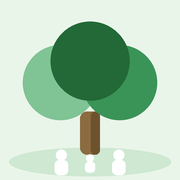
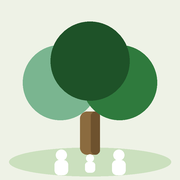
style: 초록/카키/연두 팔레트로 시스템 컬러 재정비
- 주 액센트(--blue) 파랑 → 진한 잎사귀 초록 (#2f7a3d)
- --khaki / --lime 토큰 추가
- 배경 그라디언트, 폼 입력, 캘린더 셀, 오늘 하이라이트, 포커스 링, FAB 그림자,
  진행중/반복/여유 배지, 아이콘 배경까지 통일된 초록 톤

Claude-Session: https://claude.ai/code/session_01G9J7WjVZ9wcXL5GQctGjiN

Changed region(s): [[0.4722, 0.25, 0.8889, 0.6667]]

diff --git a/styles.css b/styles.css
@@ -1,5 +1,5 @@
-:root{--ink:#111827;--muted:#7a8494;--soft:#f5f6f8;--line:#e6e8ee;--paper:#fff;--blue:#0a84ff;--blue-dark:#0066d6;--red:#ff3b30;--amber:#b87500;--green:#248a5b;--shadow:0 1px 2px rgba(17,24,39,.04),0 18px 46px rgba(17,24,39,.06)}
-:root.dark{--ink:#f4f6fb;--muted:#9aa4b2;--soft:#0f1117;--line:#2b303a;--paper:#191d25;--blue:#4aa3ff;--blue-dark:#2c8bea;--shadow:0 18px 46px rgba(0,0,0,.26)}
-.stock-search{display:grid;grid-template-columns:1fr auto;gap:10px;margin-bottom:12px}.stock-search input{width:100%;min-height:46px;padding:11px 12px;border:1px solid var(--line);border-radius:8px;background:#f9fafb;color:var(--ink);outline:0}html.dark .stock-search input{background:#11151d}.quick-links{display:flex;gap:8px;flex-wrap:wrap;margin-bottom:14px}.quick-links a{display:inline-flex;align-items:center;min-height:32px;padding:6px 10px;border:1px solid var(--line);border-radius:999px;background:var(--paper);color:var(--blue);font-size:13px;font-weight:800;text-decoration:none}.investment-grid{display:grid;grid-template-columns:repeat(3,1fr);gap:10px}.indicator-card{display:grid;gap:7px;min-height:142px;padding:14px;border:1px solid var(--line);border-radius:8px;background:var(--paper);color:var(--ink);text-decoration:none}.indicator-card:hover{border-color:rgba(10,132,255,.45);box-shadow:0 0 0 3px rgba(10,132,255,.12)}.indicator-card b{font-size:16px}.indicator-card span:last-child{color:var(--muted);font-size:12px;line-height:1.45}.indicator-purpose{color:var(--blue);font-size:12px;font-weight:900}
-.task-dialog{border:1px solid var(--line);border-radius:12px;padding:0;width:min(560px,94vw);max-width:560px;background:var(--paper);color:var(--ink);box-shadow:var(--shadow);max-height:90vh;overflow:hidden}.task-dialog::backdrop{background:rgba(0,0,0,.35)}.task-dialog-body{padding:20px;max-height:90vh;overflow-y:auto}.task-dialog .card-head{margin-bottom:14px}.task-dialog h2{font-size:18px;line-height:1.25;margin:0}.hero-right{display:flex;gap:12px;align-items:center;flex-wrap:wrap;justify-content:flex-end}.primary.compact{min-height:36px;padding:0 14px;font-size:14px}.fab{display:none;position:fixed;right:16px;bottom:16px;width:56px;height:56px;border-radius:50%;background:var(--blue);color:#fff;border:0;font-size:28px;font-weight:800;box-shadow:0 8px 24px rgba(10,132,255,.4);z-index:4;line-height:1;padding:0}@media(max-width:760px){.fab{display:block}.hero-right .primary.compact{display:none}}@media(max-width:760px){.stock-search{grid-template-columns:1fr}.investment-grid{grid-template-columns:1fr}.indicator-card{min-height:auto}.quick-links a{flex:1;justify-content:center;min-width:calc(50% - 4px)}}
-*{box-sizing:border-box}html{background:var(--soft)}body{margin:0;background:linear-gradient(180deg,#fbfbfd 0,var(--soft) 280px);color:var(--ink);font-family:ui-sans-serif,system-ui,-apple-system,BlinkMacSystemFont,"Apple SD Gothic Neo","Noto Sans KR",sans-serif;-webkit-font-smoothing:antialiased}html.dark body{background:linear-gradient(180deg,#171b24 0,var(--soft) 320px)}button,input,select,textarea{font:inherit}button{cursor:pointer}.app{width:min(1180px,100%);margin:auto;padding:32px 20px 56px}.top{display:flex;justify-content:space-between;align-items:flex-end;margin-bottom:16px}.eyebrow{color:var(--blue);font-size:12px;font-weight:800}.top h1{margin:4px 0 0;font-size:32px;line-height:1.1}.topRight{display:flex;gap:10px;align-items:center}.date,.user,.hint,.task-meta,.footnote{color:var(--muted)}.date{font-size:14px}.userLine{display:flex;gap:8px;align-items:center}.user{font-size:13px}.toolbar{display:flex;gap:8px;flex-wrap:wrap;margin-bottom:14px}.logout,.tool,.text-button,.month-nav button{border:1px solid var(--line);background:rgba(255,255,255,.86);border-radius:8px;color:var(--ink)}html.dark .logout,html.dark .tool,html.dark .text-button,html.dark .month-nav button{background:#1f2430}.logout,.tool,.text-button{padding:8px 10px}.text-button{color:var(--blue);border:0;background:transparent}.grid{display:grid;grid-template-columns:minmax(0,1.36fr) minmax(330px,.9fr);gap:14px}.grid>*{min-width:0}.card{background:rgba(255,255,255,.88);border:1px solid rgba(220,224,232,.9);border-radius:8px;padding:18px;box-shadow:var(--shadow);backdrop-filter:blur(16px)}html.dark .card{background:rgba(25,29,37,.92);border-color:#2b303a}.wide{grid-column:1/-1}.card-head{display:flex;justify-content:space-between;gap:14px;align-items:flex-start;margin-bottom:14px}.card h2{font-size:18px;line-height:1.25;margin:0}.hint{font-size:13px}.summary{display:flex;gap:18px;align-items:center}.stat{min-width:70px;padding-left:14px;border-left:1px solid var(--line)}.stat b{display:block;font-size:22px;line-height:1}.stat span{font-size:12px;color:var(--muted)}.tasks,.project-list{display:grid;gap:8px}.task{display:flex;flex-wrap:wrap;align-items:center;gap:12px;min-width:0;min-height:56px;padding:10px 8px;border:1px solid var(--line);border-radius:8px;background:var(--paper)}.task.done{opacity:.52}.task.done .task-title{text-decoration:line-through}.check{appearance:none;-webkit-appearance:none;width:21px;height:21px;margin:0;border:2px solid var(--c,var(--blue));border-radius:6px;background:var(--paper);display:grid;place-items:center;cursor:pointer;flex:none}.check:checked{background:var(--c,var(--blue))}.check:checked::after{content:"";width:5px;height:10px;border:solid #fff;border-width:0 2.5px 2.5px 0;transform:rotate(45deg) translateY(-1px)}.task-main{min-width:0;flex:1 1 150px}.task-side{display:flex;align-items:center;gap:8px;margin-left:auto;flex-wrap:wrap;justify-content:flex-end}.task-title{font-weight:760}.task-meta{font-size:12px;margin-top:2px;overflow:hidden;text-overflow:ellipsis;white-space:nowrap}.badge,.due-badge{font-size:12px;font-weight:800;padding:4px 8px;border-radius:999px;white-space:nowrap}.high,.overdue{background:#fff1f0;color:var(--red)}.middle,.soon{background:#fff8e8;color:var(--amber)}.low,.today-due{background:#ecf9f2;color:var(--green)}.delete,.edit{border:0;color:#a4adba;background:transparent;font-size:14px;height:30px;border-radius:8px}.delete{width:28px;font-size:20px}.edit{padding:0 8px}.delete:hover,.edit:hover{background:#f2f4f7;color:#667085}html.dark .delete:hover,html.dark .edit:hover{background:#262d39;color:#c5ceda}.form{display:grid;gap:10px}.form input,.form select,.form textarea,.project-add input{width:100%;min-height:44px;padding:11px 12px;border:1px solid var(--line);border-radius:8px;background:#f9fafb;color:var(--ink);outline:0}html.dark .form input,html.dark .form select,html.dark .form textarea,html.dark .project-add input{background:#11151d}.form input:focus,.form select:focus,.form textarea:focus,.project-add input:focus{border-color:var(--blue);background:var(--paper);box-shadow:0 0 0 3px rgba(10,132,255,.14)}.form textarea{min-height:78px;resize:vertical}.form-row>*{min-width:0;max-width:100%}.form input[type=date],.form input[type=time]{display:block;min-width:0;-webkit-appearance:none;appearance:none;text-align:left}.form-row,.project-add{display:grid;grid-template-columns:1fr 1fr;gap:10px}.project-add{grid-template-columns:1fr auto;margin-bottom:12px}.primary{min-height:46px;background:var(--blue);border:0;color:#fff;border-radius:8px;font-weight:800}.primary:hover{background:var(--blue-dark)}.chips{display:flex;gap:8px;flex-wrap:wrap;margin-bottom:12px}.chip{display:inline-flex;gap:6px;align-items:center;border:1px solid var(--line);border-radius:999px;padding:6px 9px;background:var(--paper);font-size:13px}.chip button{border:0;background:transparent;color:var(--muted)}.project{padding:12px 0;border-bottom:1px solid var(--line)}.project:last-child{border-bottom:0}.project-line{display:flex;justify-content:space-between;gap:8px;font-weight:760}.bar{height:6px;background:#edf0f5;border-radius:999px;overflow:hidden;margin-top:10px}html.dark .bar{background:#303642}.bar i{height:100%;display:block;background:var(--blue);border-radius:999px}.alerts{display:grid;gap:8px;margin-bottom:10px}.alert{padding:10px 12px;border-radius:8px;background:#fff8e8;color:var(--amber);font-size:13px}.calendar-header{display:flex;justify-content:space-between;align-items:center;margin-bottom:12px}.month-nav{display:flex;gap:8px}.month-nav button{min-width:34px;height:34px;color:var(--blue);font-size:15px}.week,.days{display:grid;grid-template-columns:repeat(7,minmax(0,1fr));gap:6px}.week span{text-align:center;font-size:12px;color:var(--muted);padding:6px 0}.day{min-width:0;overflow:hidden;min-height:78px;padding:8px;border-radius:8px;background:#f8f9fb;border:1px solid transparent;font-size:13px;text-align:left;color:var(--ink)}html.dark .day{background:#141922}.day.today{border-color:var(--blue);background:#eef6ff}html.dark .day.today{background:#11253a}.day.selected{box-shadow:0 0 0 3px rgba(10,132,255,.16)}.day.other{opacity:.42}.day b{font-size:12px}.dot{display:block;overflow:hidden;text-overflow:ellipsis;white-space:nowrap;margin-top:6px;padding:3px 6px;background:#e7f1ff;color:#075bb8;border-radius:6px;font-size:10px}.empty{padding:22px 0;text-align:center;color:var(--muted);font-size:14px}.footnote{margin-top:16px;font-size:12px}.overlay[hidden]{display:none}.overlay{position:fixed;inset:0;background:radial-gradient(circle at top,#fff 0,#f3f6fb 55%,#eef1f6 100%);display:grid;place-items:center;padding:20px;z-index:5}.login{width:min(420px,100%);padding:32px;background:rgba(255,255,255,.9);border:1px solid rgba(220,224,232,.95);border-radius:8px;box-shadow:0 18px 60px rgba(17,24,39,.14);backdrop-filter:blur(18px)}.login h1{margin:6px 0 10px;font-size:31px;line-height:1.1}.login p{line-height:1.62;color:var(--muted);font-size:14px}.google{width:100%;min-height:48px;margin-top:16px;border-radius:8px;border:1px solid var(--line);background:#111827;color:#fff;font-weight:800}.notice{min-height:18px;margin:12px 0 0;color:var(--red);font-size:13px}.market-grid{display:grid;grid-template-columns:repeat(4,minmax(0,1fr));gap:10px}.market-item{border:1px solid var(--line);border-radius:8px;padding:12px;background:var(--paper)}.market-item b{display:block;font-size:17px}.market-item span{display:block;color:var(--muted);font-size:12px;margin-top:4px}.spark{display:flex;align-items:end;gap:3px;height:34px;margin-top:10px}.spark i{flex:1;background:linear-gradient(180deg,#ffb13b,#ff6b1a);border-radius:4px 4px 0 0}.market-status{margin-bottom:12px;color:var(--muted);font-size:13px}.status{margin-bottom:10px;color:var(--muted);font-size:13px}.status:empty{display:none}.series-dialog{border:1px solid var(--line);border-radius:12px;padding:20px;width:min(360px,90vw);background:var(--paper);color:var(--ink);box-shadow:var(--shadow)}.series-dialog::backdrop{background:rgba(0,0,0,.35)}.series-dialog h3{margin:0 0 6px;font-size:17px}.series-dialog p{margin:0}.dialog-actions{display:flex;gap:8px;flex-wrap:wrap;margin-top:14px}.dialog-actions .primary{min-height:40px;padding:0 14px}.badge.repeat{background:#eef2ff;color:#4353b5}.dot-color{display:inline-block;width:8px;height:8px;border-radius:50%;margin-right:6px;vertical-align:middle}.chip.fixed{padding-right:12px}.field{display:grid;gap:4px;min-width:0}.field>span{font-size:12px;color:var(--muted)}.check-field{display:flex;align-items:center;gap:8px;min-height:44px;padding:0 12px;border:1px solid var(--line);border-radius:8px;background:#f9fafb;font-size:14px;cursor:pointer}html.dark .check-field{background:#11151d}.form .check-field input{width:18px;height:18px;min-height:0;padding:0;margin:0;accent-color:var(--blue)}.check-row{display:flex;gap:10px;align-items:center;flex-wrap:wrap}.check-row .check-field{flex:1}.form-row:has(#repeat option[value=none]:checked){grid-template-columns:1fr}.form-row:has(#repeat option[value=none]:checked) #repeatCount{display:none}.ongoing{background:#eef6ff;color:#075bb8}.badge.remind{background:#fff4e5;color:#b45309}html.dark .dot{filter:brightness(1.35)}.dot.more{background:transparent;color:var(--muted);padding-left:2px}.check-field.locked{opacity:.7}.members{list-style:none;margin:0 0 12px;padding:0;display:grid;gap:6px}.members li{display:flex;align-items:center;gap:6px;font-size:14px}.code-line{display:flex;align-items:center;gap:10px;margin-top:8px;font-size:13px;color:var(--muted)}.code{font-family:ui-monospace,SFMono-Regular,Menlo,Consolas,monospace;font-size:20px;letter-spacing:3px;padding:6px 10px;border:1px dashed var(--line);border-radius:8px;color:var(--ink)}.family-actions{margin-bottom:10px}.family-actions .primary{width:100%}#joinCode{text-transform:uppercase}.source-link{color:var(--blue);font-weight:800;text-decoration:none}@media(max-width:760px){body{background:var(--soft)}.app{padding:18px 12px 36px}.top{align-items:flex-start;gap:12px;margin-bottom:16px}.top h1{font-size:28px}.topRight{align-items:flex-end;flex-direction:column;gap:6px}.grid{grid-template-columns:1fr;gap:12px}.wide{grid-column:auto}.card{padding:16px}.card-head{align-items:flex-start}.summary{gap:12px}.stat{min-width:0}.form-row{grid-template-columns:1fr}.task{padding:10px 8px}.badge,.due-badge{font-size:11px}.day{min-height:60px;padding:6px}.week,.days{gap:5px}.dot{font-size:9px;padding:2px 5px}.market-grid{grid-template-columns:repeat(2,minmax(0,1fr))}.footnote{line-height:1.5}.top{flex-direction:column;align-items:stretch;gap:8px}.topRight{flex-direction:row;justify-content:space-between;align-items:center;width:100%}.top h1{font-size:26px;white-space:nowrap}.logout{white-space:nowrap}.stat span{white-space:nowrap}.summary{gap:10px}.stat{padding-left:10px}}
+:root{--ink:#1c2b1c;--muted:#7d8875;--soft:#eef2e6;--line:#dbe2d0;--paper:#fff;--blue:#2f7a3d;--blue-dark:#1e5228;--khaki:#8b8f52;--lime:#b5d67a;--red:#c44536;--amber:#a67207;--green:#2f7a3d;--shadow:0 1px 2px rgba(28,43,28,.05),0 18px 46px rgba(28,43,28,.08)}
+:root.dark{--ink:#eff3e8;--muted:#a4b19a;--soft:#0f130e;--line:#2d332a;--paper:#191d16;--blue:#6dbb7e;--blue-dark:#4aa25a;--khaki:#b0b877;--lime:#c9e69a;--shadow:0 18px 46px rgba(0,0,0,.32)}
+.stock-search{display:grid;grid-template-columns:1fr auto;gap:10px;margin-bottom:12px}.stock-search input{width:100%;min-height:46px;padding:11px 12px;border:1px solid var(--line);border-radius:8px;background:#f7faf1;color:var(--ink);outline:0}html.dark .stock-search input{background:#121712}.quick-links{display:flex;gap:8px;flex-wrap:wrap;margin-bottom:14px}.quick-links a{display:inline-flex;align-items:center;min-height:32px;padding:6px 10px;border:1px solid var(--line);border-radius:999px;background:var(--paper);color:var(--blue);font-size:13px;font-weight:800;text-decoration:none}.investment-grid{display:grid;grid-template-columns:repeat(3,1fr);gap:10px}.indicator-card{display:grid;gap:7px;min-height:142px;padding:14px;border:1px solid var(--line);border-radius:8px;background:var(--paper);color:var(--ink);text-decoration:none}.indicator-card:hover{border-color:rgba(10,132,255,.45);box-shadow:0 0 0 3px rgba(10,132,255,.12)}.indicator-card b{font-size:16px}.indicator-card span:last-child{color:var(--muted);font-size:12px;line-height:1.45}.indicator-purpose{color:var(--blue);font-size:12px;font-weight:900}
+.task-dialog{border:1px solid var(--line);border-radius:12px;padding:0;width:min(560px,94vw);max-width:560px;background:var(--paper);color:var(--ink);box-shadow:var(--shadow);max-height:90vh;overflow:hidden}.task-dialog::backdrop{background:rgba(0,0,0,.35)}.task-dialog-body{padding:20px;max-height:90vh;overflow-y:auto}.task-dialog .card-head{margin-bottom:14px}.task-dialog h2{font-size:18px;line-height:1.25;margin:0}.hero-right{display:flex;gap:12px;align-items:center;flex-wrap:wrap;justify-content:flex-end}.primary.compact{min-height:36px;padding:0 14px;font-size:14px}.fab{display:none;position:fixed;right:16px;bottom:16px;width:56px;height:56px;border-radius:50%;background:var(--blue);color:#fff;border:0;font-size:28px;font-weight:800;box-shadow:0 8px 24px rgba(47,122,61,.4);z-index:4;line-height:1;padding:0}@media(max-width:760px){.fab{display:block}.hero-right .primary.compact{display:none}}@media(max-width:760px){.stock-search{grid-template-columns:1fr}.investment-grid{grid-template-columns:1fr}.indicator-card{min-height:auto}.quick-links a{flex:1;justify-content:center;min-width:calc(50% - 4px)}}
+*{box-sizing:border-box}html{background:var(--soft)}body{margin:0;background:linear-gradient(180deg,#f7faf1 0,var(--soft) 280px);color:var(--ink);font-family:ui-sans-serif,system-ui,-apple-system,BlinkMacSystemFont,"Apple SD Gothic Neo","Noto Sans KR",sans-serif;-webkit-font-smoothing:antialiased}html.dark body{background:linear-gradient(180deg,#171b13 0,var(--soft) 320px)}button,input,select,textarea{font:inherit}button{cursor:pointer}.app{width:min(1180px,100%);margin:auto;padding:32px 20px 56px}.top{display:flex;justify-content:space-between;align-items:flex-end;margin-bottom:16px}.eyebrow{color:var(--blue);font-size:12px;font-weight:800}.top h1{margin:4px 0 0;font-size:32px;line-height:1.1}.topRight{display:flex;gap:10px;align-items:center}.date,.user,.hint,.task-meta,.footnote{color:var(--muted)}.date{font-size:14px}.userLine{display:flex;gap:8px;align-items:center}.user{font-size:13px}.toolbar{display:flex;gap:8px;flex-wrap:wrap;margin-bottom:14px}.logout,.tool,.text-button,.month-nav button{border:1px solid var(--line);background:rgba(255,255,255,.86);border-radius:8px;color:var(--ink)}html.dark .logout,html.dark .tool,html.dark .text-button,html.dark .month-nav button{background:#1f2430}.logout,.tool,.text-button{padding:8px 10px}.text-button{color:var(--blue);border:0;background:transparent}.grid{display:grid;grid-template-columns:minmax(0,1.36fr) minmax(330px,.9fr);gap:14px}.grid>*{min-width:0}.card{background:rgba(255,255,255,.88);border:1px solid rgba(220,224,232,.9);border-radius:8px;padding:18px;box-shadow:var(--shadow);backdrop-filter:blur(16px)}html.dark .card{background:rgba(25,29,37,.92);border-color:#2b303a}.wide{grid-column:1/-1}.card-head{display:flex;justify-content:space-between;gap:14px;align-items:flex-start;margin-bottom:14px}.card h2{font-size:18px;line-height:1.25;margin:0}.hint{font-size:13px}.summary{display:flex;gap:18px;align-items:center}.stat{min-width:70px;padding-left:14px;border-left:1px solid var(--line)}.stat b{display:block;font-size:22px;line-height:1}.stat span{font-size:12px;color:var(--muted)}.tasks,.project-list{display:grid;gap:8px}.task{display:flex;flex-wrap:wrap;align-items:center;gap:12px;min-width:0;min-height:56px;padding:10px 8px;border:1px solid var(--line);border-radius:8px;background:var(--paper)}.task.done{opacity:.52}.task.done .task-title{text-decoration:line-through}.check{appearance:none;-webkit-appearance:none;width:21px;height:21px;margin:0;border:2px solid var(--c,var(--blue));border-radius:6px;background:var(--paper);display:grid;place-items:center;cursor:pointer;flex:none}.check:checked{background:var(--c,var(--blue))}.check:checked::after{content:"";width:5px;height:10px;border:solid #fff;border-width:0 2.5px 2.5px 0;transform:rotate(45deg) translateY(-1px)}.task-main{min-width:0;flex:1 1 150px}.task-side{display:flex;align-items:center;gap:8px;margin-left:auto;flex-wrap:wrap;justify-content:flex-end}.task-title{font-weight:760}.task-meta{font-size:12px;margin-top:2px;overflow:hidden;text-overflow:ellipsis;white-space:nowrap}.badge,.due-badge{font-size:12px;font-weight:800;padding:4px 8px;border-radius:999px;white-space:nowrap}.high,.overdue{background:#fff1f0;color:var(--red)}.middle,.soon{background:#fff8e8;color:var(--amber)}.low,.today-due{background:#eaf3d9;color:#3d6e1a}.delete,.edit{border:0;color:#a4adba;background:transparent;font-size:14px;height:30px;border-radius:8px}.delete{width:28px;font-size:20px}.edit{padding:0 8px}.delete:hover,.edit:hover{background:#f2f4f7;color:#667085}html.dark .delete:hover,html.dark .edit:hover{background:#262d39;color:#c5ceda}.form{display:grid;gap:10px}.form input,.form select,.form textarea,.project-add input{width:100%;min-height:44px;padding:11px 12px;border:1px solid var(--line);border-radius:8px;background:#f7faf1;color:var(--ink);outline:0}html.dark .form input,html.dark .form select,html.dark .form textarea,html.dark .project-add input{background:#121712}.form input:focus,.form select:focus,.form textarea:focus,.project-add input:focus{border-color:var(--blue);background:var(--paper);box-shadow:0 0 0 3px rgba(47,122,61,.18)}.form textarea{min-height:78px;resize:vertical}.form-row>*{min-width:0;max-width:100%}.form input[type=date],.form input[type=time]{display:block;min-width:0;-webkit-appearance:none;appearance:none;text-align:left}.form-row,.project-add{display:grid;grid-template-columns:1fr 1fr;gap:10px}.project-add{grid-template-columns:1fr auto;margin-bottom:12px}.primary{min-height:46px;background:var(--blue);border:0;color:#fff;border-radius:8px;font-weight:800}.primary:hover{background:var(--blue-dark)}.chips{display:flex;gap:8px;flex-wrap:wrap;margin-bottom:12px}.chip{display:inline-flex;gap:6px;align-items:center;border:1px solid var(--line);border-radius:999px;padding:6px 9px;background:var(--paper);font-size:13px}.chip button{border:0;background:transparent;color:var(--muted)}.project{padding:12px 0;border-bottom:1px solid var(--line)}.project:last-child{border-bottom:0}.project-line{display:flex;justify-content:space-between;gap:8px;font-weight:760}.bar{height:6px;background:#edf0f5;border-radius:999px;overflow:hidden;margin-top:10px}html.dark .bar{background:#303642}.bar i{height:100%;display:block;background:var(--blue);border-radius:999px}.alerts{display:grid;gap:8px;margin-bottom:10px}.alert{padding:10px 12px;border-radius:8px;background:#fff8e8;color:var(--amber);font-size:13px}.calendar-header{display:flex;justify-content:space-between;align-items:center;margin-bottom:12px}.month-nav{display:flex;gap:8px}.month-nav button{min-width:34px;height:34px;color:var(--blue);font-size:15px}.week,.days{display:grid;grid-template-columns:repeat(7,minmax(0,1fr));gap:6px}.week span{text-align:center;font-size:12px;color:var(--muted);padding:6px 0}.day{min-width:0;overflow:hidden;min-height:78px;padding:8px;border-radius:8px;background:#f4f7ec;border:1px solid transparent;font-size:13px;text-align:left;color:var(--ink)}html.dark .day{background:#171d12}.day.today{border-color:var(--blue);background:#eaf3d9}html.dark .day.today{background:#1f2a12}.day.selected{box-shadow:0 0 0 3px rgba(47,122,61,.22)}.day.other{opacity:.42}.day b{font-size:12px}.dot{display:block;overflow:hidden;text-overflow:ellipsis;white-space:nowrap;margin-top:6px;padding:3px 6px;background:#e7f1ff;color:#075bb8;border-radius:6px;font-size:10px}.empty{padding:22px 0;text-align:center;color:var(--muted);font-size:14px}.footnote{margin-top:16px;font-size:12px}.overlay[hidden]{display:none}.overlay{position:fixed;inset:0;background:radial-gradient(circle at top,#fff 0,#f3f6fb 55%,#eef1f6 100%);display:grid;place-items:center;padding:20px;z-index:5}.login{width:min(420px,100%);padding:32px;background:rgba(255,255,255,.9);border:1px solid rgba(220,224,232,.95);border-radius:8px;box-shadow:0 18px 60px rgba(17,24,39,.14);backdrop-filter:blur(18px)}.login h1{margin:6px 0 10px;font-size:31px;line-height:1.1}.login p{line-height:1.62;color:var(--muted);font-size:14px}.google{width:100%;min-height:48px;margin-top:16px;border-radius:8px;border:1px solid var(--line);background:#111827;color:#fff;font-weight:800}.notice{min-height:18px;margin:12px 0 0;color:var(--red);font-size:13px}.market-grid{display:grid;grid-template-columns:repeat(4,minmax(0,1fr));gap:10px}.market-item{border:1px solid var(--line);border-radius:8px;padding:12px;background:var(--paper)}.market-item b{display:block;font-size:17px}.market-item span{display:block;color:var(--muted);font-size:12px;margin-top:4px}.spark{display:flex;align-items:end;gap:3px;height:34px;margin-top:10px}.spark i{flex:1;background:linear-gradient(180deg,#ffb13b,#ff6b1a);border-radius:4px 4px 0 0}.market-status{margin-bottom:12px;color:var(--muted);font-size:13px}.status{margin-bottom:10px;color:var(--muted);font-size:13px}.status:empty{display:none}.series-dialog{border:1px solid var(--line);border-radius:12px;padding:20px;width:min(360px,90vw);background:var(--paper);color:var(--ink);box-shadow:var(--shadow)}.series-dialog::backdrop{background:rgba(0,0,0,.35)}.series-dialog h3{margin:0 0 6px;font-size:17px}.series-dialog p{margin:0}.dialog-actions{display:flex;gap:8px;flex-wrap:wrap;margin-top:14px}.dialog-actions .primary{min-height:40px;padding:0 14px}.badge.repeat{background:#f1eed6;color:#7a6d1a}.dot-color{display:inline-block;width:8px;height:8px;border-radius:50%;margin-right:6px;vertical-align:middle}.chip.fixed{padding-right:12px}.field{display:grid;gap:4px;min-width:0}.field>span{font-size:12px;color:var(--muted)}.check-field{display:flex;align-items:center;gap:8px;min-height:44px;padding:0 12px;border:1px solid var(--line);border-radius:8px;background:#f9fafb;font-size:14px;cursor:pointer}html.dark .check-field{background:#121712}.form .check-field input{width:18px;height:18px;min-height:0;padding:0;margin:0;accent-color:var(--blue)}.check-row{display:flex;gap:10px;align-items:center;flex-wrap:wrap}.check-row .check-field{flex:1}.form-row:has(#repeat option[value=none]:checked){grid-template-columns:1fr}.form-row:has(#repeat option[value=none]:checked) #repeatCount{display:none}.ongoing{background:#eaf3d9;color:#4a6d1a}.badge.remind{background:#fff4e5;color:#b45309}html.dark .dot{filter:brightness(1.35)}.dot.more{background:transparent;color:var(--muted);padding-left:2px}.check-field.locked{opacity:.7}.members{list-style:none;margin:0 0 12px;padding:0;display:grid;gap:6px}.members li{display:flex;align-items:center;gap:6px;font-size:14px}.code-line{display:flex;align-items:center;gap:10px;margin-top:8px;font-size:13px;color:var(--muted)}.code{font-family:ui-monospace,SFMono-Regular,Menlo,Consolas,monospace;font-size:20px;letter-spacing:3px;padding:6px 10px;border:1px dashed var(--line);border-radius:8px;color:var(--ink)}.family-actions{margin-bottom:10px}.family-actions .primary{width:100%}#joinCode{text-transform:uppercase}.source-link{color:var(--blue);font-weight:800;text-decoration:none}@media(max-width:760px){body{background:var(--soft)}.app{padding:18px 12px 36px}.top{align-items:flex-start;gap:12px;margin-bottom:16px}.top h1{font-size:28px}.topRight{align-items:flex-end;flex-direction:column;gap:6px}.grid{grid-template-columns:1fr;gap:12px}.wide{grid-column:auto}.card{padding:16px}.card-head{align-items:flex-start}.summary{gap:12px}.stat{min-width:0}.form-row{grid-template-columns:1fr}.task{padding:10px 8px}.badge,.due-badge{font-size:11px}.day{min-height:60px;padding:6px}.week,.days{gap:5px}.dot{font-size:9px;padding:2px 5px}.market-grid{grid-template-columns:repeat(2,minmax(0,1fr))}.footnote{line-height:1.5}.top{flex-direction:column;align-items:stretch;gap:8px}.topRight{flex-direction:row;justify-content:space-between;align-items:center;width:100%}.top h1{font-size:26px;white-space:nowrap}.logout{white-space:nowrap}.stat span{white-space:nowrap}.summary{gap:10px}.stat{padding-left:10px}}

diff --git a/index.html b/index.html
@@ -3,7 +3,7 @@
 <head>
   <meta charset="utf-8">
   <meta name="viewport" content="width=device-width,initial-scale=1">
-  <meta name="theme-color" content="#eaf5ea">
+  <meta name="theme-color" content="#eef2e6">
   <meta name="apple-mobile-web-app-capable" content="yes">
   <meta name="apple-mobile-web-app-title" content="우리집 데스크">
   <meta name="apple-mobile-web-app-status-bar-style" content="default">
